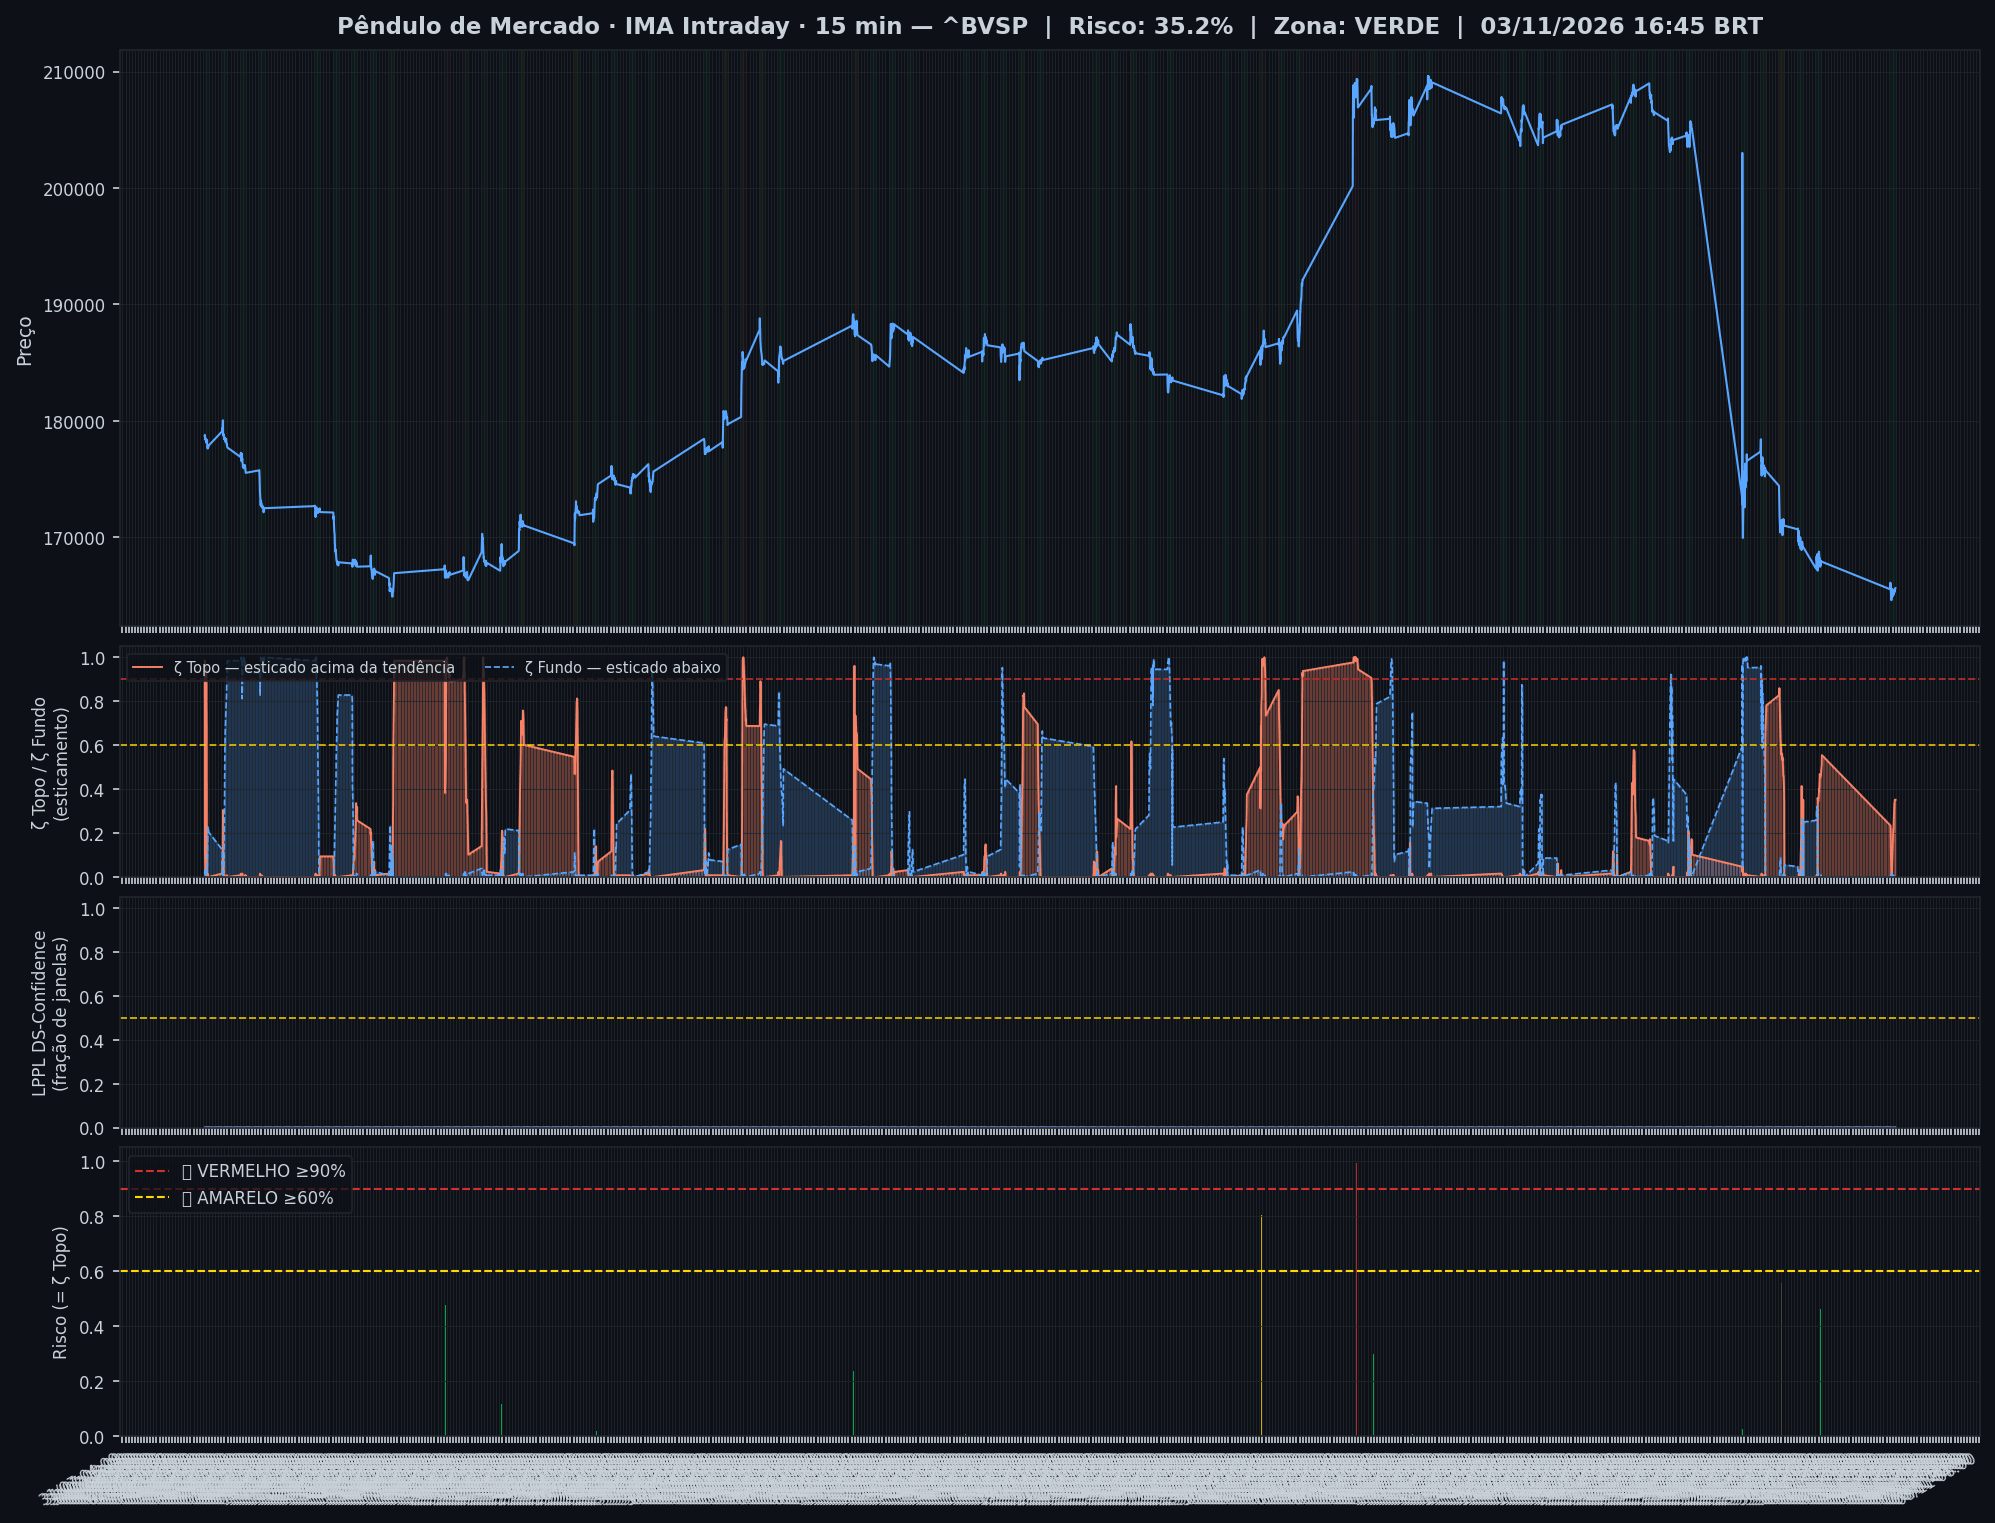
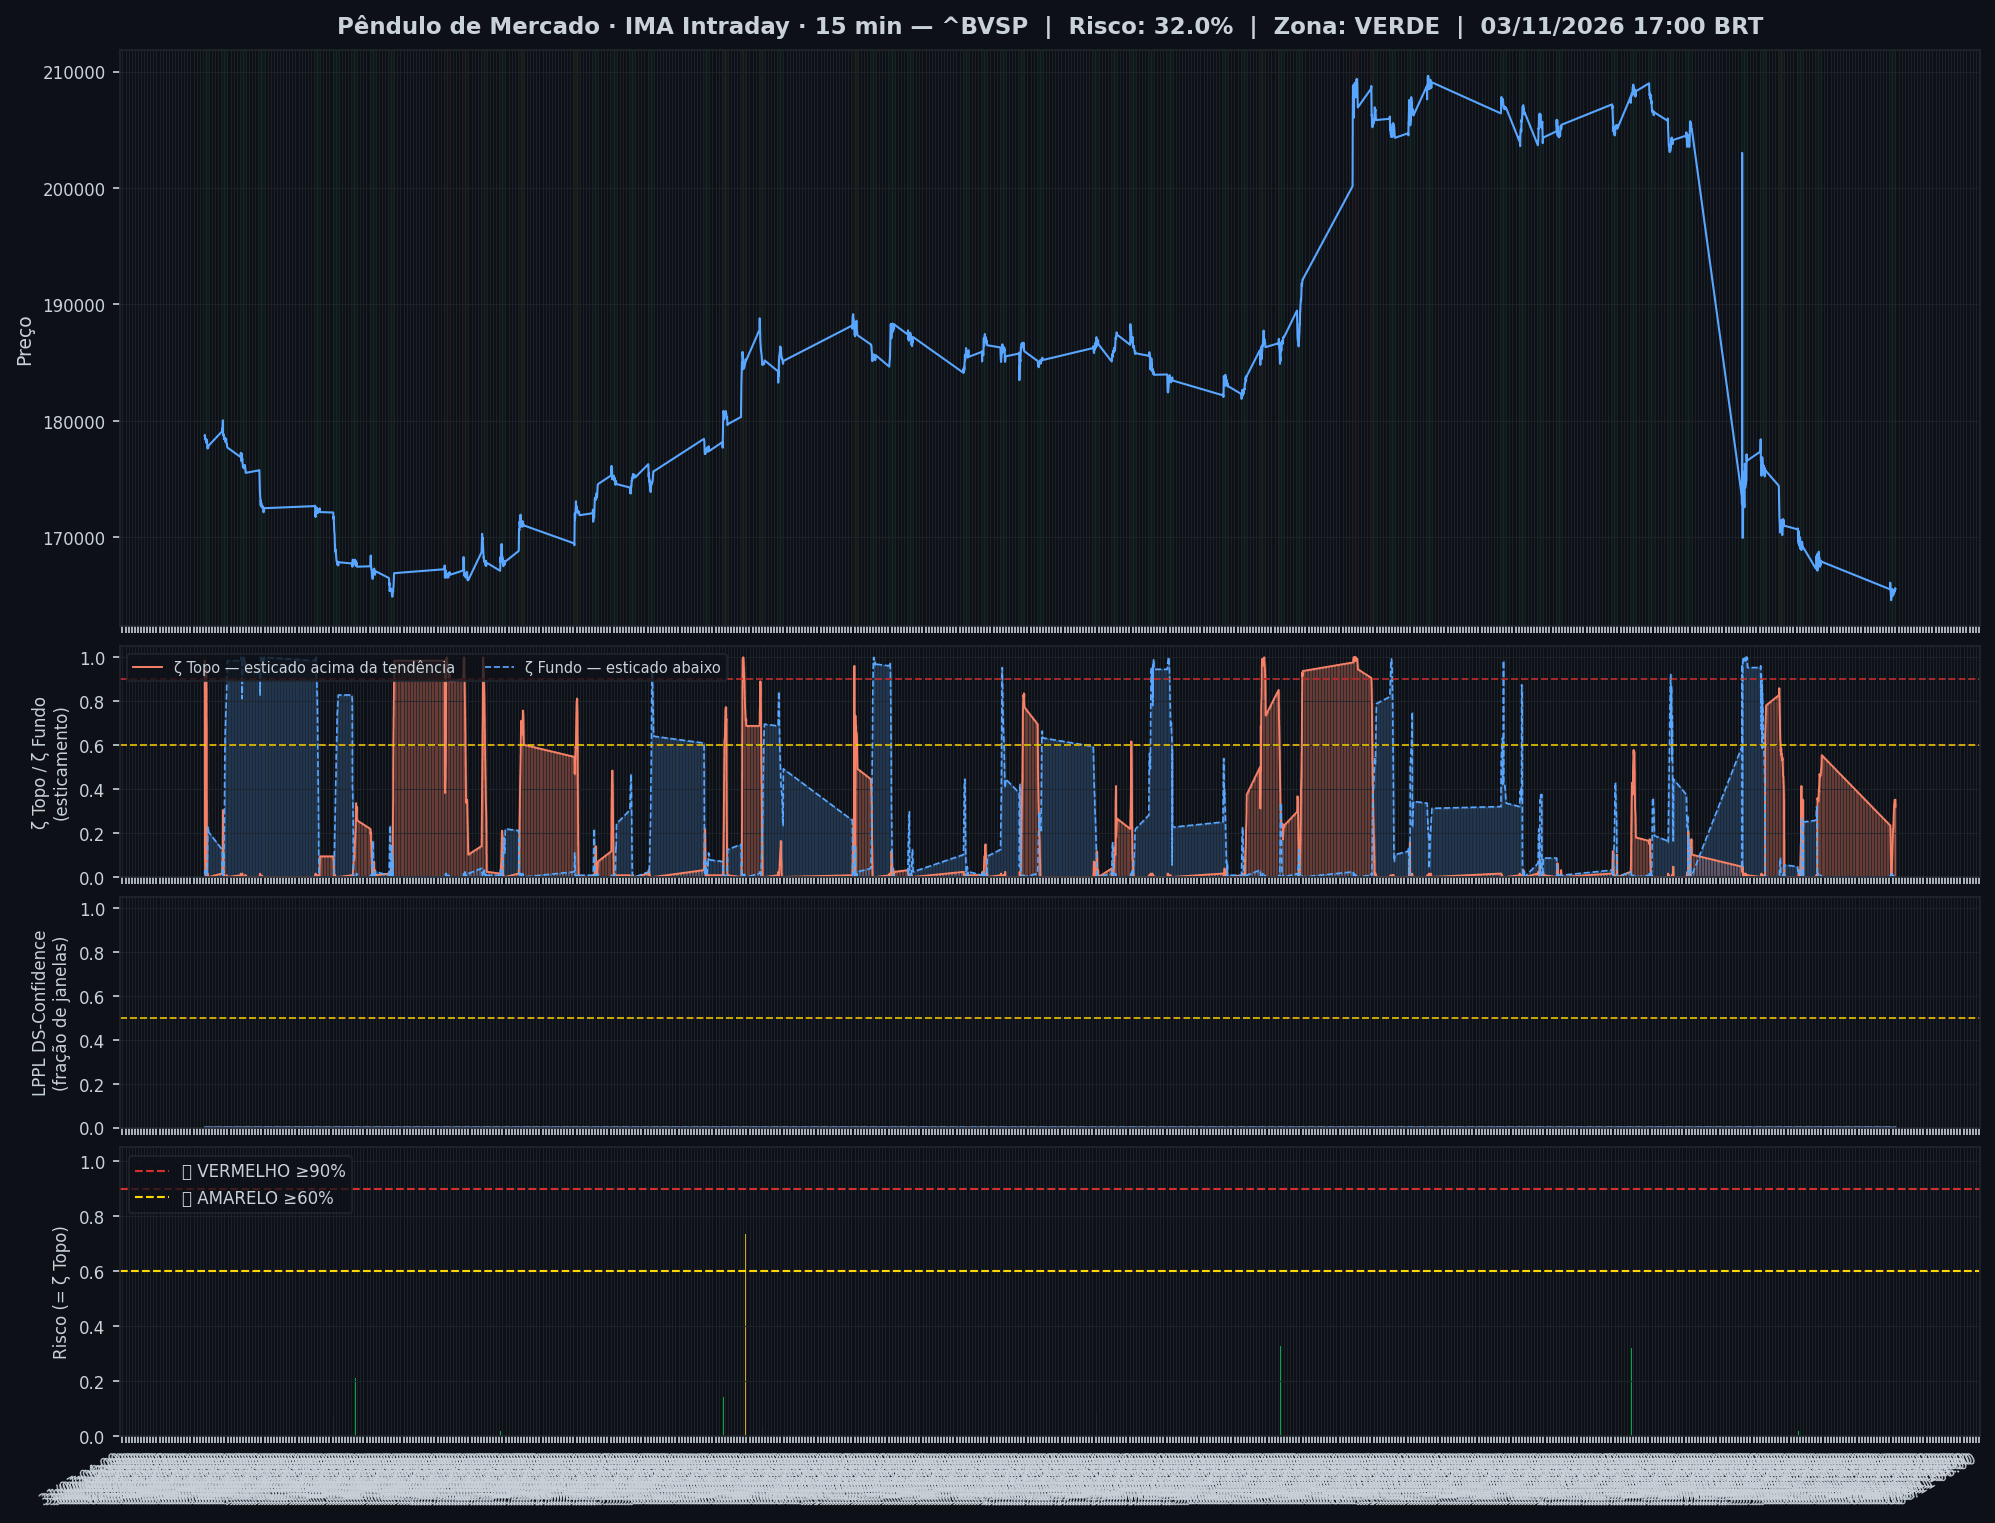
🤖 Auto: Sinal 03/11/2026 17:15

diff --git a/content/intraday/2026-11-03.md b/content/intraday/2026-11-03.md
@@ -1,11 +1,11 @@
 ---
-title: "🟢 Intraday 03/11/2026 16:45 BRT — VERDE"
+title: "🟢 Intraday 03/11/2026 17:00 BRT — VERDE"
 date: 2026-11-03
 tags: [intraday]
 ---
 
-> [!success] Onde o mercado está agora (03/11 16:45, candles de 15 min): **🟢 Calmo**
-> `Pânico ◀──────────────●──────▶ Euforia`
+> [!success] Onde o mercado está agora (03/11 17:00, candles de 15 min): **🟢 Calmo**
+> `Pânico ◀─────────────●───────▶ Euforia`
 >
 > O Ibovespa está dentro da sua faixa normal, sem excesso para cima nem para baixo.
 > No gráfico diário: 📉 Esticamento desinflando.
@@ -20,8 +20,8 @@ tags: [intraday]
 > | 📍 **Sinais** | hoje: 2 sinal(is), 1 forte(s) | [abrir](sinais-topo-fundo/) |
 > | 🧪 **Placar ao vivo** | 1 operação(ões), 0 com lucro, soma -0,8% | [abrir](operacoes/) |
 
-> [!success] IMA Intraday · 15 min (03/11 16:45): 🟢 **VERDE** — Risco 35% · ＝ +0 p.p. vs leitura anterior
-> `███████░░░░░░░░░░░░░`
+> [!success] IMA Intraday · 15 min (03/11 17:00): 🟢 **VERDE** — Risco 32% · ▼ -3 p.p. vs leitura anterior
+> `██████░░░░░░░░░░░░░░`
 > Preço na faixa normal em torno da tendência.
 
 
@@ -32,13 +32,13 @@ tags: [intraday]
 >
 > *Leitura educacional baseada em 26 anos de dados, não recomendação. [Como usar](../metodologia/crise#3-como-usar-na-prática).*
 
-| Indicador — IMA Intraday · 15 min (03/11 16:45) | Valor |
+| Indicador — IMA Intraday · 15 min (03/11 17:00) | Valor |
 |---|---|
-| 🔴 ζ Topo — preço esticado acima da tendência | **35%** |
+| 🔴 ζ Topo — preço esticado acima da tendência | **32%** |
 | 🔵 ζ Fundo — preço esticado abaixo da tendência | 0% |
 | 🫧 LPPL bolha — alta super-exponencial (risco de crash) | 0% |
 | 🫧 LPPL antibolha — queda super-exponencial (risco de repique) | 0% |
-| 📊 Ibovespa | 165.653 pts |
+| 📊 Ibovespa | 165.576 pts |
 
 ![Gráfico do sinal](../graficos/sinal_intraday.png)
 
@@ -46,6 +46,7 @@ tags: [intraday]
 
 | Data | Zona | Evento | Risco | ζ Topo | ζ Fundo | LPPL |
 |---|---|---|---|---|---|---|
+| 2026-11-03 17:00 | 🟢 VERDE |  | **32%** | 32% | 0% | 0% |
 | 2026-11-03 16:45 | 🟢 VERDE |  | **35%** | 35% | 0% | 0% |
 | 2026-11-03 16:30 | 🟢 VERDE |  | **35%** | 35% | 0% | 0% |
 | 2026-11-03 16:15 | 🟢 VERDE |  | **35%** | 35% | 0% | 0% |
@@ -75,7 +76,6 @@ tags: [intraday]
 | 2026-11-03 10:15 | 🟢 VERDE |  | **20%** | 20% | 1% | 0% |
 | 2026-11-03 10:00 | 🟢 VERDE |  | **23%** | 23% | 0% | 0% |
 | 2026-10-30 17:15 | 🟢 VERDE |  | **55%** | 55% | 0% | 0% |
-| 2026-10-30 17:00 | 🟢 VERDE |  | **51%** | 51% | 0% | 0% |
 
 <small>Destaques: 🟡 ≥ 60% · 🔴 ≥ 90% (Risco e ζ Topo) · 🔵 ≥ 60% · 🔪 ≥ 90% (ζ Fundo) · 🫧 ≥ 30% · 🫧🔴 ≥ 50% (LPPL)</small>
 
@@ -89,34 +89,34 @@ tags: [intraday]
 | 🟢 | **VIBRA** | Energia | 45.3% | 0.0% |
 | 🟢 | **AMBEV S/A** | Consumo | 42.2% | 0.0% |
 | 🟢 | **SABESP** | Saneamento | 39.1% | 0.0% |
-| 🟢 | **COPEL** | Energia | 33.6% | 0.0% |
-| 🟢 | **B3** | Financeiro | 32.8% | 0.0% |
+| 🟢 | **COPEL** | Energia | 35.2% | 0.0% |
+| 🟢 | **BTGP BANCO** | Financeiro | 32.0% | 0.0% |
 | 🟢 | **ENEVA** | Energia | 32.0% | 0.0% |
-| 🟢 | **REDE D OR** | Saúde | 32.0% | 0.0% |
-| 🟢 | **BTGP BANCO** | Financeiro | 31.2% | 0.0% |
+| 🟢 | **EMBRAER** | Outros | 0.8% | 31.2% |
+| 🟢 | **B3** | Financeiro | 31.2% | 0.0% |
+| 🟢 | **REDE D OR** | Saúde | 29.7% | 0.0% |
 | 🟢 | **ITAUSA** | Financeiro | 28.9% | 0.0% |
 | 🟢 | **ULTRAPAR** | Outros | 28.9% | 0.0% |
-| 🟢 | **EMBRAER** | Outros | 0.0% | 28.1% |
 | 🟢 | **EQUATORIAL** | Energia | 25.8% | 0.0% |
-| 🟢 | **LOCALIZA** | Aluguel | 25.8% | 0.0% |
-| 🟢 | **PETROBRAS** | Petróleo | 24.2% | 0.0% |
-| 🟢 | **ITAUUNIBANCO** | Financeiro | 23.4% | 0.0% |
-| 🟢 | **BRASIL** | Financeiro | 21.1% | 0.0% |
-| 🟢 | **AXIA ENERGIA** | Energia | 10.9% | 0.0% |
-| 🟢 | **PETROBRAS** | Petróleo | 9.4% | 0.0% |
-| 🟢 | **BRADESCO** | Financeiro | 9.4% | 0.0% |
-| 🟢 | **SUZANO S.A.** | Papel/Celulose | 0.0% | 9.4% |
-| 🟢 | **PRIO** | Petróleo | 7.8% | 0.0% |
-| 🟢 | **WEG** | Industrial | 4.7% | 1.6% |
+| 🟢 | **PETROBRAS** | Petróleo | 25.0% | 0.0% |
+| 🟢 | **LOCALIZA** | Aluguel | 24.2% | 0.0% |
+| 🟢 | **BRASIL** | Financeiro | 21.9% | 0.0% |
+| 🟢 | **ITAUUNIBANCO** | Financeiro | 20.3% | 0.0% |
+| 🟢 | **PETROBRAS** | Petróleo | 11.7% | 0.0% |
+| 🟢 | **SUZANO S.A.** | Papel/Celulose | 0.0% | 10.9% |
+| 🟢 | **BRADESCO** | Financeiro | 10.2% | 0.0% |
+| 🟢 | **WEG** | Industrial | 8.6% | 0.0% |
+| 🟢 | **AXIA ENERGIA** | Energia | 7.0% | 0.0% |
+| 🟢 | **PRIO** | Petróleo | 4.7% | 0.0% |
 | 🟢 | **VALE** | Mineração | 0.0% | 3.9% |
-| 🟢 | **BBSEGURIDADE** | Financeiro | 0.8% | 0.8% |
+| 🟢 | **BBSEGURIDADE** | Financeiro | 0.8% | 0.0% |
 | 🟢 | **GERDAU** | Siderurgia | 0.0% | 0.0% |
 
 <small>Destaques: 🟡 ≥ 60% · 🔴 ≥ 90% (Risco e ζ Topo) · 🔵 ≥ 60% · 🔪 ≥ 90% (ζ Fundo) · 🫧 ≥ 30% · 🫧🔴 ≥ 50% (LPPL)</small>
 
 ![Monitor multi-ativo](../graficos/multi_intraday.png)
 
-*Página atualizada em 03/11/2026 17:00 BRT (leitura da barra de 2026-11-03 16:45 BRT).*
+*Página atualizada em 03/11/2026 17:15 BRT (leitura da barra de 2026-11-03 17:00 BRT).*
 
 > [!warning] O que este indicador não faz
 > Medido em 5 anos de Ibovespa, o ζ **não antecipa** topos nem fundos: a capacidade de separar o que sobe do que cai ficou em 0,49–0,52, e 0,50 é moeda jogada ao ar. Ele descreve o estado de agora; não é aviso do que vem. As zonas verde/amarelo/vermelho continuam na página como descrição desse estado — **não as use como sinal de entrada ou saída**.

diff --git a/content/index.md b/content/index.md
@@ -6,10 +6,10 @@ tags: [home]
 
 **As ondas do mercado, explicadas.** Leitura do Ibovespa com estatística de 26 anos, baseada no trabalho de pesquisadores e traders reconhecidos e adaptada por Jarbas Daniel da Costa.
 
-*Última atualização: 03/11/2026 17:00 BRT · Intraday 15min*
+*Última atualização: 03/11/2026 17:15 BRT · Intraday 15min*
 
-> [!success] Onde o mercado está agora (03/11 16:45, candles de 15 min): **🟢 Calmo**
-> `Pânico ◀──────────────●──────▶ Euforia`
+> [!success] Onde o mercado está agora (03/11 17:00, candles de 15 min): **🟢 Calmo**
+> `Pânico ◀─────────────●───────▶ Euforia`
 >
 > O Ibovespa está dentro da sua faixa normal, sem excesso para cima nem para baixo.
 > No gráfico diário: 📉 Esticamento desinflando.
@@ -20,7 +20,7 @@ tags: [home]
 
 | Módulo | Agora | |
 |---|---|---|
-| 🌊 **Sinal de Crise** | 🟢 VERDE · 🟢 calmo · ζ Topo 35% | [relatório](intraday/2026-11-03) |
+| 🌊 **Sinal de Crise** | 🟢 VERDE · 🟢 calmo · ζ Topo 32% | [relatório](intraday/2026-11-03) |
 | 📈 **Tendência MME9** | Diário — fora<br>Semanal ⚡ saiu hoje às 10:00 a 167.008 (confirma às 19h) | [abrir](operacoes/tendencia) |
 | 🎯 **Entradas do método** | ⏳ aguardando: Diário · Nadaraya, H4 · Semáforo N2, Diário · Semáforo N3 após ζ Fundo | [abrir](operacoes/entradas) |
 | 📍 **Sinais** | hoje: 2 sinal(is), 1 forte(s) | [abrir](sinais-topo-fundo/) |
@@ -61,18 +61,18 @@ tags: [home]
 > *Leitura educacional baseada em 26 anos de dados, não recomendação. [Como usar](metodologia/crise#3-como-usar-na-prática).*
 
 > [!info]- 🌊 Detalhes do Sinal de Crise (indicadores e últimos 7 pregões)
-> > [!success] IMA Intraday · 15 min (03/11 16:45): 🟢 **VERDE** — Risco 35% · ＝ +0 p.p. vs leitura anterior
-> > `███████░░░░░░░░░░░░░`
+> > [!success] IMA Intraday · 15 min (03/11 17:00): 🟢 **VERDE** — Risco 32% · ▼ -3 p.p. vs leitura anterior
+> > `██████░░░░░░░░░░░░░░`
 > > Preço na faixa normal em torno da tendência.
 >
 >
-> | Indicador — IMA Intraday · 15 min (03/11 16:45) | Valor |
+> | Indicador — IMA Intraday · 15 min (03/11 17:00) | Valor |
 > |---|---|
-> | 🔴 ζ Topo — preço esticado acima da tendência | **35%** |
+> | 🔴 ζ Topo — preço esticado acima da tendência | **32%** |
 > | 🔵 ζ Fundo — preço esticado abaixo da tendência | 0% |
 > | 🫧 LPPL bolha — alta super-exponencial (risco de crash) | 0% |
 > | 🫧 LPPL antibolha — queda super-exponencial (risco de repique) | 0% |
-> | 📊 Ibovespa | 165.653 pts |
+> | 📊 Ibovespa | 165.576 pts |
 >
 > **Multi-ativo:** 0% em tensão (0🔴 0🟡 de 26 ativos)
 >
@@ -80,7 +80,7 @@ tags: [home]
 >
 > | Data | Zona | Risco | ζ Topo | ζ Fundo | LPPL |
 > |---|---|---|---|---|---|
-> | [03/11/2026](intraday/2026-11-03) | 🟢 VERDE | **35%** | 35% | 0% | 0% |
+> | [03/11/2026](intraday/2026-11-03) | 🟢 VERDE | **32%** | 32% | 0% | 0% |
 > | [30/10/2026](intraday/2026-10-30) | 🟢 VERDE | **55%** | 55% | 0% | 0% |
 >
 > <small>Destaques: 🟡 ≥ 60% · 🔴 ≥ 90% (Risco e ζ Topo) · 🔵 ≥ 60% · 🔪 ≥ 90% (ζ Fundo) · 🫧 ≥ 30% · 🫧🔴 ≥ 50% (LPPL)</small>

diff --git a/content/operacoes/entradas.md b/content/operacoes/entradas.md
@@ -31,7 +31,7 @@ description: "Compra depois de um sinal de fundo: Nadaraya no diário, semáforo
 > | Diário · Semáforo N3 após ζ Fundo | 07/07/26 a 172.021 | 10/08/26 a 172.021 | **+0,0%** | stop no preço de entrada |
 > | H4 · Semáforo N2 | 12/06/26 14h a 171.134 | 15/06/26 14h a 171.134 | **+0,0%** | stop no preço de entrada |
 >
-> <small>Atualizado 02/11 19:00 · checado no pregão às 17:00. Nota: ✅ passou no teste fora da amostra (walk-forward 2008–2026) · 🧪 em teste (H4, com aviso no Telegram) ou em observação (ζ, sem aviso) · 🧪 na tabela = operação do teste ao vivo.</small>
+> <small>Atualizado 02/11 19:00 · checado no pregão às 17:15. Nota: ✅ passou no teste fora da amostra (walk-forward 2008–2026) · 🧪 em teste (H4, com aviso no Telegram) ou em observação (ζ, sem aviso) · 🧪 na tabela = operação do teste ao vivo.</small>
 >
 > *Regras: depois de um sinal de fundo, o Diário entra quando o Nadaraya vira para cima; o Semanal e o H4 entram quando um fundo do semáforo fica fixo. Stop e saída de cada regra na [metodologia](metodologia/regras-de-operacao#entradas-do-método). Nenhuma regra de venda passou no teste. Os números do histórico têm viés de escolha (overfitting); o placar ao vivo é o que vale. Leitura educacional do método, não recomendação.*
 

diff --git a/content/historico.md b/content/historico.md
@@ -5,7 +5,7 @@ tags: [historico]
 
 # 📜 Histórico de leituras (v5)
 
-**2.103 leituras** desde 2026-07-03. Na página ficam os últimos 3 dias leitura por leitura e o resumo de cada dia anterior; o registro inteiro está no arquivo para baixar.
+**2.104 leituras** desde 2026-07-03. Na página ficam os últimos 3 dias leitura por leitura e o resumo de cada dia anterior; o registro inteiro está no arquivo para baixar.
 
 [**Baixar o histórico completo**](historico-completo.csv) (92 KB · abre no Excel e no LibreOffice)
 
@@ -16,6 +16,7 @@ tags: [historico]
 
 | Data | Modo | Zona | Risco | IMA | LPPL |
 |---|---|---|---|---|---|
+| 2026-11-03 17:00 | intraday | 🟢 VERDE | 32% | 32% | 0% |
 | 2026-11-03 16:45 | intraday | 🟢 VERDE | 35% | 35% | 0% |
 | 2026-11-03 16:30 | intraday | 🟢 VERDE | 35% | 35% | 0% |
 | 2026-11-03 16:15 | intraday | 🟢 VERDE | 35% | 35% | 0% |

diff --git a/content/operacoes/ranking.md b/content/operacoes/ranking.md
@@ -5,7 +5,7 @@ tags: [operacoes]
 description: "As regras de compra do site ordenadas pelo resultado, com treino, teste e placar ao vivo"
 ---
 
-*Atualizado 03/11/2026 17:00 · histórico simulado com as regras congeladas em 23/10/2026 + placar ao vivo.*
+*Atualizado 03/11/2026 17:15 · histórico simulado com as regras congeladas em 23/10/2026 + placar ao vivo.*
 
 As regras de compra do site, **da que mais rendeu para a que menos rendeu**. O resultado é por operação, no índice à vista, sem custos e sem juros compostos (a soma é só a soma das operações). **Treino** = entradas de 2001 a 2013 e **teste** = 2014 em diante: uma regra só é confiável se ganhou nos dois. O único resultado sem nenhum ajuste ao histórico é o **placar ao vivo**.
 

diff --git a/content/linha-do-tempo/index.md b/content/linha-do-tempo/index.md
@@ -5,7 +5,7 @@ description: "Todo sinal, ordem, stop e aviso do Pêndulo de Mercado, do mais re
 tags: [eventos]
 ---
 
-*Atualizada 03/11/2026 17:00 BRT · a cada 15 min no pregão e às 19h.*
+*Atualizada 03/11/2026 17:15 BRT · a cada 15 min no pregão e às 19h.*
 
 Tudo o que o sistema fez ou detectou, **do mais recente para o mais antigo**: sinais de topo e fundo, ordens de compra e de venda armadas, compras, vendas, stops, avisos de 🚨 preço perto do nível e mudanças da Crise. Os **últimos 7 dias** ficam abertos; o resto, por **ano → mês → dia**.
 
